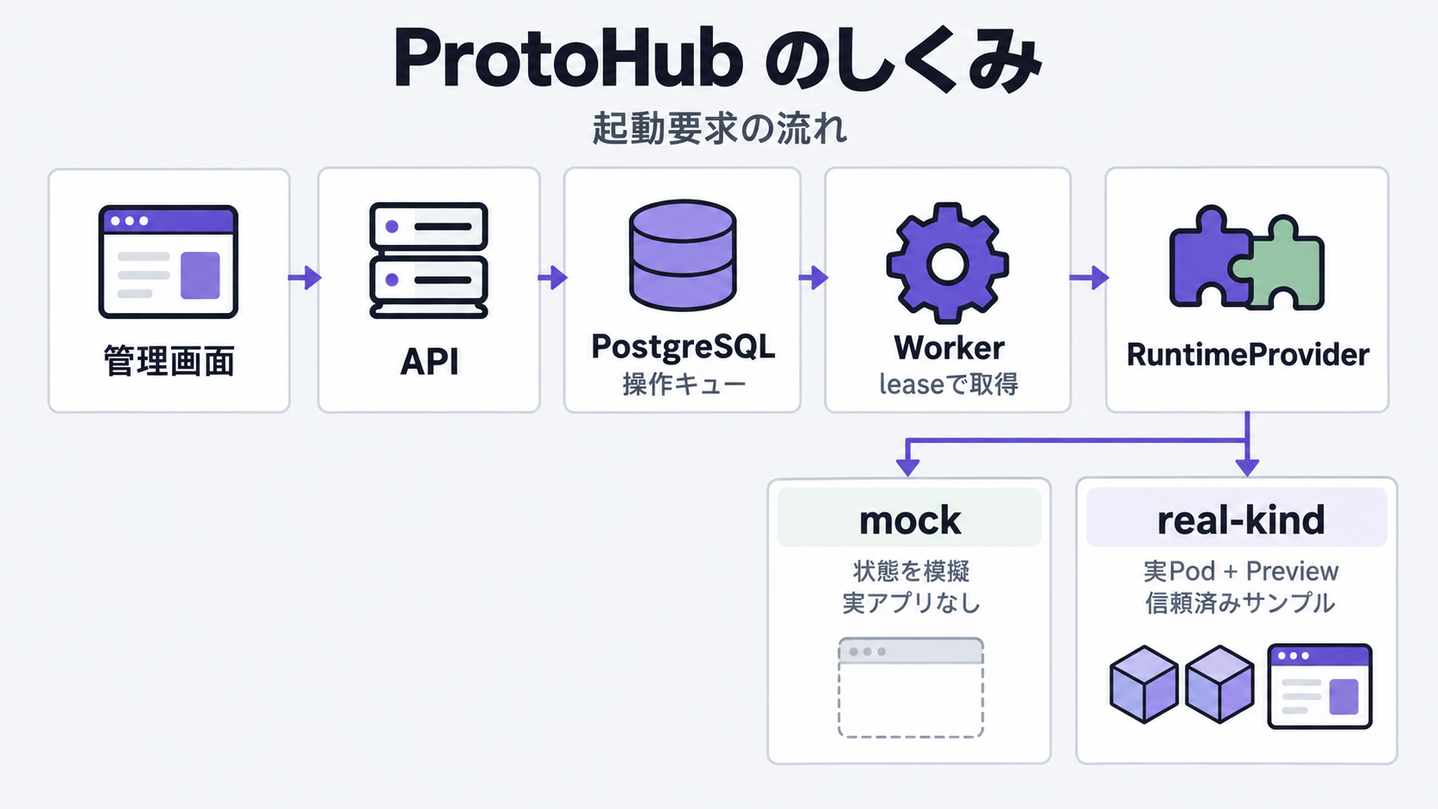
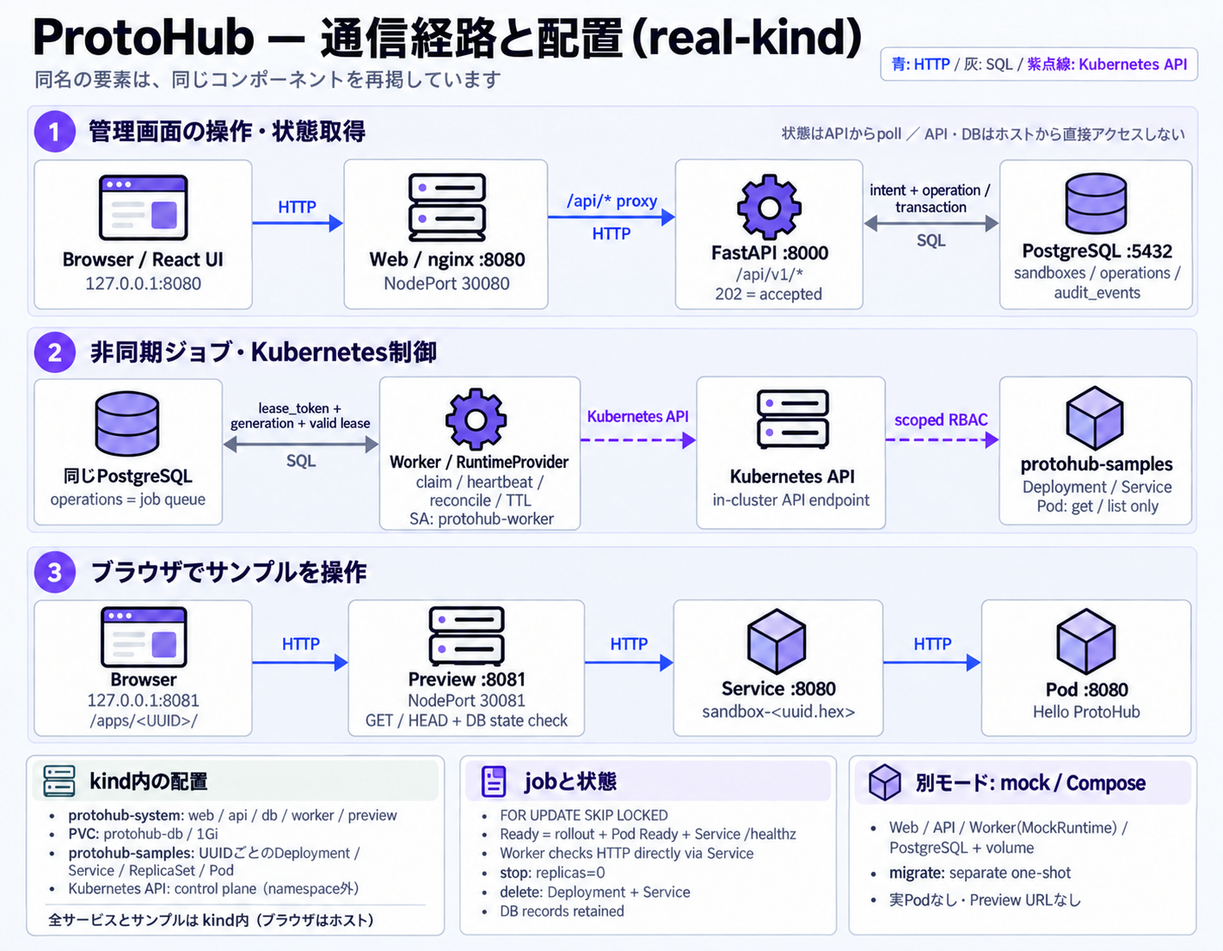
Clarify product walkthrough and detailed engineering diagrams

diff --git a/docs/images/README.md b/docs/images/README.md
@@ -1,75 +1,95 @@
-# READMEの生成イラスト
+# READMEの図と生成プロンプト
 
-GitHubのREADMEで、ProtoHub v0のコンセプトと論理構成を説明するための画像です。
-実画面・動作証跡ではありません。仕様の正本は [MVP_SPEC.md](../MVP_SPEC.md)、
+利用者とエンジニアで読む目的を分け、v2では構成から描き直しました。
+実画面のキャプチャ・動作証跡ではありません。仕様の正本は [MVP_SPEC.md](../MVP_SPEC.md)、
 実検証の到達点は [VALIDATION.md](../VALIDATION.md) を参照してください。
 
-| ファイル | 目的 |
-| --- | --- |
-| [protohub-concept.png](protohub-concept.png) | 信頼済みサンプルの登録・起動・URL操作・停止・削除 |
-| [protohub-architecture.png](protohub-architecture.png) | 管理画面・API・PostgreSQL・Worker・RuntimeProviderと、mock/real-kindの違い |
+| ファイル | 読む人 | 図で伝えること |
+| --- | --- | --- |
+| [protohub-concept.png](protohub-concept.png) | 初めて使う人 | 登録フォーム、起動待ち、Ready後にサンプルを開いてカウンターボタンを押す体験と、アプリごとの停止・起動・削除 |
+| [protohub-architecture.png](protohub-architecture.png) | 実装を読むエンジニア | 管理操作・非同期制御・サンプル操作の3つの通信経路、kindのnamespace別配置、job制御、別構成のmock/Compose |
 
-2026-10-30に内蔵の `image_gen` ツールで新規生成しました。外部API用CLI、実APIキー、
-実画面のキャプチャは使用していません。生成されたPNGをそのままリポジトリに保存しています。
-画像内のReadyは概念上の状態で、テスト合格の宣言ではありません。
-アプリ用AIエージェント、任意コード実行、クラウド公開、悪性コード隔離を表しません。
+2026-10-30に内蔵の `image_gen` ツールで編集生成し、採用PNGをそのまま保存しました。
+元のv1画像はcommit `696ae83` の同じpathにあります。利用者向けは管理画面とサンプルを
+簡略化した操作例です。テンプレート名・サンプル名・カウンター・操作ラベルを実装と照合しています。
+構成図では同じコンポーネントを経路ごとに再掲します。たとえばDBは共通で、経路ごとの別DBではありません。
+PNG内のReadyや接続線は実kind検証の合格を表しません。
 
-## 再生成用プロンプト
+## 再生成手順
 
-以下は採用画像の生成時に使用したプロンプトです。同じプロンプトでも再生成結果は変わり得ます。
+以下は採用画像に使用したプロンプトです。操作図はv1画像を参照して全体構成を編集しました。構成図はv1から3段の通信図を生成し、
+その出力に対して、同一コンポーネントの再掲とWorkerのServiceAccount所属の表記を修正しました。
+同じ入力でも再生成結果は変わり得るため、採用前に文字・接続先・仕様を確認します。
+外部API用CLIや実APIキーは使用していません。
 
-### コンセプト図
+詳細構成の途中案では接続線が重なり誤解を生んだため採用せず、通信経路を3段に分ける
+構成へ変更しました。採用図ではHTTPがPreview → Service → Podの順であること、
+WorkerのKubernetes制御とSQLアクセスが区別できること、mockのmigrationがAPI通信の
+中継点にならないことを確認します。
+
+### 利用者向け：登録して実際に試す操作例
+
+参照画像: v1の `protohub-concept.png`。
 
 ```text
-Use case: infographic-diagram.
-Asset type: GitHub README concept illustration for the existing ProtoHub repository. Produce one finished landscape image, ideally 1536x864, opaque background.
-Primary request: Explain a localhost-only MVP that lets a developer register a trusted sample web app, start it, open its URL when Ready, then stop or delete that app. This is a concept illustration, not an actual screenshot.
-Style: precise editorial product illustration; crisp, sophisticated, mostly flat illustrated objects with very subtle volume and restrained linework. Use the existing product palette: cool off-white #f5f6f8, white cards, charcoal #242736, purple #6750b6, muted green for Ready. Generous whitespace, strong hierarchy, readable Japanese sans-serif text. No stock-photo look, no neon gradients, no robot or AI chat imagery.
-Composition: wide, balanced README cover. At top a large exact wordmark "ProtoHub" and a clear short Japanese headline. Center: one stylized local laptop showing two separate simple sample-app cards, with a small browser-window illustration connected to a Ready card to express opening a URL. Use an illustrative rather than pixel-perfect screenshot treatment. The cards are generic symbols, not fabricated live telemetry. At bottom, four clearly ordered, numbered steps connected left-to-right by arrows, each with a large simple pictogram and exact Japanese label. All type must remain legible when displayed at 900px wide.
-Text (verbatim only, no extra labels):
-"ProtoHub"
-"信頼済みサンプルを、ローカルですぐ試す。"
-"LOCAL MVP"
-"App A"
-"App B"
-"Ready"
-"1 登録"
-"2 起動"
-"3 URLで操作"
-"4 停止・削除"
-Constraints: Japanese characters must be correct and clean. Use the label Ready only as a conceptual card state, never as a verified test result. Show each app as its own card without locks or claims of hostile-code isolation. No cloud, deployment-to-internet, auth, arbitrary-code upload, AI agent, chat bubble, LLM, model name, Kubernetes logo, extra marketing claims, fabricated metrics, or URLs. Do not imply deletion removes the database. No watermark. Keep the full composition inside safe margins.
+Use case: infographic-diagram, full composition revision of an existing README illustration.
+Edit target: the referenced ProtoHub concept image. Replace the entire vague laptop/desk composition with a concrete THREE-PANEL PRODUCT STORYBOARD. Preserve only brand identity, cool off-white background #f5f6f8, purple management controls #6750b6, charcoal text, and green Ready. Remove the desk, plant, laptop hardware, generic landscape webpage, oversized logo, and icon-only flow.
+Primary goal: A new visitor should immediately understand what the product lets them DO and what happens after they click. Show an actual example: register the trusted Hello Web template as デモA, start it, wait for Ready, open the sample, click its counter button; later stop one app while another stays running. This is a conceptual illustration of the real-kind mode, not a screenshot or runtime test result.
+Canvas: wide landscape around 2000x1250, highly legible, crisp flat editorial diagram with large Japanese labels and clean simplified UI panels. No tiny text or decorative props. Header occupies only 12% height. Main three panels occupy 62%; practical per-app management footer 26%. Visible arrows connect the panels left-to-right. Panel3 should be the largest (~40% width), showing the concrete outcome.
+Header exact: "サンプルを起動して、ブラウザで操作できる" with small "ProtoHub / real-kind".
+PANEL1 heading "1 登録する". A simplified actual registration form: label "アプリ名", value "デモA"; label "テンプレート", value "Hello Web"; a purple text button "登録". No code editor, arbitrary upload, or invented template choices.
+PANEL2 heading "2 起動を待つ". Same app "デモA", clear purple text button "起動", arrow to an amber status "起動中". A small waiting indicator conveys asynchronous startup; this panel has no Preview yet.
+PANEL3 heading "3 開いて試す". Same app "デモA", green "Ready", purple button "アプリを開く", then a DOWNWARD arrow into a distinct BLUE SAMPLE browser window (blue #285ed0, pale-blue #eef4fc). It has exact title "Hello ProtoHub". Its large counter button shows "Clicked 0 times" transitioning by a click/cursor arrow to "Clicked 1 times". This is the actual sample behavior; the value is an example, not recorded telemetry. The browser app is a working counter, NOT a generic marketing page. Add short text "ボタンを押すと反応" near the click to make the payoff obvious.
+FOOTER, clearly separated and introduced by "使ったあとは、アプリごとに管理". Show TWO compact management rows after stopping the first app:
+"デモA" with status "停止中" and labeled buttons "起動" and "削除".
+"デモB" with green status "Ready" and labeled buttons "停止" and "削除".
+Alongside them, short outcome statements "停止後も、また起動できます" and "デモAを止めても、デモBはそのまま".
+Constraints: Render all specified Japanese correctly, no placeholder gray lines instead of meaningful UI. No separate '再起動' button (actual UI restarts by 起動). Show Ready only AFTER waiting, and open only after Ready. Generic names デモA/デモB are trusted instances of the same fixed Hello Web template, not arbitrary different apps. Do not show AI chat, generation, cloud/public hosting, security locks, malicious-code isolation, tests passed, fabricated API metrics, URLs, or database removal. Keep exact sample title and counter English; actual sample uses plural "1 times". Whole composition within generous safe margins, no watermark.
 ```
 
-### 論理構成図
+### エンジニア向け：通信経路と配置
+
+参照画像: v1の `protohub-architecture.png`。
 
 ```text
-Use case: infographic-diagram.
-Asset type: explanatory architecture illustration for a GitHub README, second image in a coordinated pair for ProtoHub. One finished landscape image, approximately 1536x864, opaque cool off-white background.
-Primary request: Explain the logical flow of the existing localhost-only trusted-template MVP: management UI → API → PostgreSQL operation queue → separate worker → RuntimeProvider. RuntimeProvider has two explicit adapters: mock simulates state and launches no app; real-kind manages actual trusted sample Pods and a Preview route. This is a logical architecture illustration, not a deployment topology map and not a screenshot or test result.
-Style/medium: precise editorial technical illustration; crisp clean cards, purposeful thin connector lines and arrowheads, simple database/worker/browser/container pictograms. Match existing brand: off-white #f5f6f8, white cards, charcoal #242736, purple #6750b6, restrained muted green. Generous whitespace, no neon or cloud imagery. Large legible Japanese/English sans-serif labels, readable at 900px display width.
-Composition: top title "ProtoHub のしくみ". Upper-middle row has EXACTLY FIVE distinct equally prominent cards connected LEFT TO RIGHT in the order below. These cards represent responsibilities, not separate hosts:
-1. browser icon and "管理画面";
-2. API icon and "API";
-3. database cylinder, "PostgreSQL", sublabel "操作キュー";
-4. gear icon, "Worker", sublabel "leaseで取得";
-5. adapter icon and "RuntimeProvider".
-From ONLY the RuntimeProvider card draw a clear fork to TWO large alternative cards below. Left alternative: "mock" heading, "状態を模擬" and "実アプリなし", a quiet outlined placeholder rather than a running browser or Pod. Right alternative: "real-kind" heading, "実Pod + Preview" and "信頼済みサンプル", two simple app-container icons with a small browser icon to represent real sample interaction. Make both mode labels equally clear. Add a small top subtitle "起動要求の流れ". All arrows must have obvious endpoints and no crossing through text.
-Text (verbatim, no other labels):
-"ProtoHub のしくみ"
-"起動要求の流れ"
-"管理画面"
-"API"
-"PostgreSQL"
-"操作キュー"
-"Worker"
-"leaseで取得"
-"RuntimeProvider"
-"mock"
-"状態を模擬"
-"実アプリなし"
-"real-kind"
-"実Pod + Preview"
-"信頼済みサンプル"
-Constraints: Japanese and uncommon identifiers spelled exactly. The database is PostgreSQL, never Redis. API and worker are distinct. The mock branch must NOT show a running app, URL or Preview. Do not draw cloud services, Redis, Docker socket, arbitrary uploaded code, authentication, AI chat/robot/LLM, model names, internet publication, a security isolation guarantee, verification pass badges, or fabricated metrics. Do not depict deletion of the database. Do not enclose only the sample in a boundary labeled kind: the figure is logical; real-kind actually also hosts control services. Keep full image within generous safe margins. No watermark.
+Use case: infographic-diagram. Full recomposition of the reference architecture illustration for engineering readers.
+Preserve ONLY its off-white/purple/charcoal palette and crisp label style. Do not retain any previous node placement. Make a fresh, readable diagram with THREE SEPARATE HORIZONTAL COMMUNICATION LANES and a compact deployment inventory beneath. No shared connector buses, no crossing arrows, no ambiguous topology lines. Landscape about 1800x1400, readable text, flat technical diagram, minimal icons, no giant logo.
+Title: "ProtoHub — 通信経路と配置（real-kind）".
+Small legend: "青: HTTP / 灰: SQL / 紫点線: Kubernetes API".
+Important: the same components are repeated by route, not duplicate running services. Say "経路ごとに同じコンポーネントを再掲".
+LANE 1 title "1 管理画面の操作・状態取得".
+Four large boxes aligned left-to-right:
+A "Browser / React UI" and "127.0.0.1:8080";
+B "Web / nginx :8080" and "NodePort 30080";
+C "FastAPI :8000" and "/api/v1/*" and "202 = accepted";
+D "PostgreSQL :5432" and "sandboxes / operations / audit_events".
+Connections ONLY A→B and B→C in BLUE HTTP, C↔D in GRAY SQL. Label B→C "/api/* proxy"; label C↔D "intent + operation / transaction". Add small note "状態はAPIからpoll". Do not expose API/DB to host.
+LANE 2 title "2 非同期ジョブ・Kubernetes制御".
+Four large boxes aligned left-to-right:
+A "同じPostgreSQL" and "operations = job queue";
+B "Worker / RuntimeProvider" and "claim / heartbeat / reconcile / TTL";
+C "Kubernetes API" and "in-cluster ServiceAccount" and "protohub-worker";
+D "protohub-samples" and "Deployment / Service" and "Pod: get / list only".
+Connections ONLY A↔B in GRAY SQL; B→C and C→D in DASHED PURPLE control. Label gray connection "lease_token + generation + valid lease". Label last connection "scoped RBAC". No arrow between this lane and lane3; observed HTTP is stated separately below.
+LANE 3 title "3 ブラウザでサンプルを操作".
+Four large boxes aligned left-to-right:
+A "Browser" and "127.0.0.1:8081" and "/apps/<UUID>/";
+B "Preview :8081" and "NodePort 30081" and "GET / HEAD + DB state check";
+C "Service :8080" and "sandbox-<uuid.hex>";
+D "Pod :8080" and "Hello ProtoHub".
+EXACTLY THREE BLUE HTTP ARROWS, left-to-right: Browser→Preview→Service→Pod. There is NO Deployment in the HTTP path. This row is the most important traffic path. No HTTP arrow Pod→Service. No direct Preview→Pod. No cross-app arrows.
+BOTTOM: Three compact informational panels WITHOUT connector arrows:
+Panel "kind内の配置": "protohub-system: web / api / db / worker / preview"; "PVC: protohub-db / 1Gi"; "protohub-samples: UUIDごとのDeployment / Service / ReplicaSet / Pod"; "Kubernetes API: control plane（namespace外）". A small sentence "全サービスとサンプルはkind内" makes physical deployment clear; browsers remain on host.
+Panel "jobと状態": "FOR UPDATE SKIP LOCKED"; "Ready = rollout + Pod Ready + Service /healthz"; "Worker checks HTTP directly via Service"; "stop: replicas=0"; "delete: Deployment + Service"; "DB records retained". No microscopic explanatory paragraphs.
+Panel "別モード: mock / Compose": A TEXT LIST, no arrows: "Web / API / Worker(MockRuntime) / PostgreSQL + volume"; "migrate: separate one-shot"; "実Podなし・Preview URLなし". Do NOT draw API→migrate→DB, since migration is a separate setup task, not an API request hop.
+Constraints: labels and ports exactly as specified. The rows are logical communication paths; placement is summarized in the bottom inventory, not by crossing topology boundaries. Do not add extra components. No Redis, Ingress, external cloud, AI/chat, test-pass badges, public API/DB, direct worker Pod creation, hostile-code isolation claims or DB deletion. All labels inside boxes, arrows only in each row with explicit endpoints. Keep all text sharp and usable at full-image view. No watermark.
+```
+
+### 詳細構成：注記とWorkerのServiceAccount表記を明確化
+
+参照画像: 上記の3段の通信図。
+
+```text
+undefined
 ```
 

diff --git a/README.md b/README.md
@@ -1,17 +1,18 @@
 # ProtoHub
 
-信頼済みの固定テンプレート `hello-web` を、管理画面から登録・起動・停止・削除する
-localhost専用MVPです。Kubernetesのコマンドを知らなくても、サンプルを起動して試せます。
+サンプルアプリを画面で登録し、起動して、ブラウザで試せるローカルの管理ツールです。
+現在のv0は、信頼済みの固定テンプレート `hello-web` を扱うlocalhost専用MVPです。
 
-![ProtoHubのコンセプト。管理画面から個別のサンプルを登録し、起動、Ready後のURL操作、停止・削除へ進む。](docs/images/protohub-concept.png)
+![ProtoHubでできること。Hello WebをデモAとして登録し、起動中からReadyになるのを待ち、アプリを開いてHello ProtoHubのカウンターボタンを操作する。使った後はアプリごとに停止・起動・削除でき、デモAを止めてもデモBは動き続ける。](docs/images/protohub-concept.png)
 
-*コンセプト図（生成イラスト）。実画面や検証結果のスクリーンショットではありません。*
+*real-kindでの操作例を描いた生成イラストです。実画面・検証証跡ではありません。
+mockでは実サンプルを開けません。*
 
-**登録 → 起動 → Ready → URLで操作 → 停止・再起動・削除** が基本の体験です。
-real-kindではPod readinessと実HTTP応答を確認してからReadyを表示します。
-アプリごとに実行資源を管理し、一方の停止・削除がもう一方に影響しない設計です。
-停止は再利用のために実行を止め、削除はそのアプリの実行資源を除去します。
-管理レコードはDBに保持します。
+- **名前を付けて登録する**：Hello Webテンプレートから、自分のサンプルを管理画面に追加します。
+- **起動して実際に試す**：「起動」後、Readyになったら「アプリを開く」を押します。
+  サンプルの `Hello ProtoHub` では、ボタンを押すとクリック回数が変わります。
+- **アプリごとに管理する**：停止後も「起動」で再び使え、不要なら削除できます。
+  一方の操作がもう一方に影響しない設計です。管理レコードはDBに保持します。
 
 v0は単一開発者・信頼済みサンプルが対象です。対話しながらアプリを作る製品内AIは
 [将来設計](docs/AI_DLC.md)として整理しています。開発者用のDevContainer・ハーネス・スキルは
@@ -20,15 +21,47 @@ v0は単一開発者・信頼済みサンプルが対象です。対話しなが
 実装・検証の到達点は [検証記録](docs/VALIDATION.md)、依存版は
 [DEV_ENVIRONMENT](docs/DEV_ENVIRONMENT.md) を参照してください。
 
-## しくみと実行モード
+## エンジニア向け：構成と実行モード
 
-![ProtoHubの論理構成。管理画面、API、PostgreSQLの操作キュー、別プロセスのWorker、RuntimeProviderを経て、mockまたはreal-kindへ処理を渡す。mockは実アプリを起動しない。](docs/images/protohub-architecture.png)
+![real-kindの通信を3段で示す。管理操作はBrowserからnginx、FastAPI、PostgreSQLへ進む。非同期処理は同じDBとWorker、ServiceAccountを使うKubernetes API制御へ進む。サンプル操作のHTTPはBrowser、Preview、Service、Podの順。下部にkindのnamespace別配置、jobと状態、別構成のmock/Composeを示す。](docs/images/protohub-architecture.png)
 
-*構成図（生成イラスト）。起動要求の論理的な流れを示します。real-kindでは管理用の
-web/API/worker/DB/previewもkind内に配置します。*
+*構成図（生成イラスト）。[画像を開くと拡大できます](docs/images/protohub-architecture.png)。
+3段の通信経路でHTTP・DBアクセス・Kubernetes制御を区別し、下部に配置とjob制御を示しています。
+各段には同じコンポーネントを再掲しています。DBが複数ある構成ではありません。
+構成の説明であり、実kind検証の合格を示すものではありません。*
 
-APIは操作要求と管理データをPostgreSQLへ保存し、別プロセスのworkerが期限付きleaseで
-jobを取得して実行・観測します。管理データと操作キューはAPI/workerの再起動後も残ります。
+図内の `127.0.0.1` はホストのbind先です。ブラウザでは管理画面の
+`http://localhost:8080` とPreviewの `http://localhost:8081/apps/<UUID>/` を使います。
+管理画面のOriginは設定済みの `localhost` と一致させてください。
+
+real-kindでは、管理用コンポーネントもサンプルも専用kindクラスタ内で動きます。
+`protohub-system` と `protohub-samples` は管理範囲を分けるnamespaceです。
+悪性コードを隔離する境界としては扱いません。以下のportは既定値です。
+
+| 経路・役割 | 実装 |
+| --- | --- |
+| 管理画面とAPI | `127.0.0.1:8080` → NodePort `30080` → nginx。Reactの静的ファイルを配信し、`/api/*` を内部のFastAPI `:8000` へ転送 |
+| サンプル操作 | `127.0.0.1:8081/apps/<UUID>/` → NodePort `30081` → Preview `:8081` → 対象Service `:8080` → Pod `:8080`。PreviewはDBで現在の状態を確認し、固定ServiceへGET/HEADだけを転送 |
+| 永続化 | PostgreSQL `:5432` の `sandboxes` / `operations` / `audit_events`。`operations` 自体がjob queue。DBはDeploymentとPVC `protohub-db` を使い、API/workerの再起動後も記録を保持 |
+| 非同期処理 | APIは意図・generation・operationを同一transactionで登録し、`202` を返す。別プロセスのworkerが `FOR UPDATE SKIP LOCKED` でclaimし、実行・観測・reconcile・TTL停止を担当 |
+| 遅延結果の抑止 | lease owner/token、有効期限、active operation、generation、desired stateを照合して更新。古いworkerの遅れた結果が新しい停止・削除を覆さない |
+| Kubernetes制御 | WorkerのServiceAccount `protohub-worker` がサンプルnamespaceのDeployment/Serviceを操作し、Podは参照のみ。PodはDeployment配下のReplicaSet/controllerが生成・管理 |
+
+APIとPreviewはKubernetesの管理tokenを持たず、APIとDBはホストへ直接公開しません。
+PreviewはCookie/Authorizationを転送せず、任意のupstream URLを受け付けません。
+API・worker・Previewは共通Pythonパッケージを使う別プロセスです。
+Pod生成の標準的な制御関係は [KubernetesのDeployment解説](https://kubernetes.io/docs/concepts/workloads/controllers/deployment/) を参照してください。
+
+実装の参照先は [配置マニフェスト](infra/kubernetes/stack.yaml.in)、[RBAC](infra/kubernetes/rbac.yaml)、
+[job store](apps/server/src/protohub/persistence/jobs.py)、[RuntimeProvider実装](apps/server/src/protohub/runtime/kubernetes.py)、
+[Preview](apps/server/src/protohub/preview/__init__.py) です。
+
+| 操作・判定 | 実際の処理 |
+| --- | --- |
+| Ready | 現generationのDeployment rollout・Pod Ready・Serviceへの実 `GET /healthz` を確認。`202` やPod作成受付だけではReadyにしない |
+| 停止 | Deploymentのreplicasを0にし、Podの停止を待つ。Deployment・Service・管理レコードは保持し、Previewを無効化 |
+| 削除 | 対象のDeployment・Serviceを除去し、消失を確認。DBには墓標と監査記録を保持 |
+| 自動停止 | 起動成功から60〜3600秒（既定900秒）のTTLをworkerが計測し、期限で停止要求を登録 |
 
 | モード | 基盤 | サンプルの挙動 |
 | --- | --- | --- |

diff --git a/harness/PLAN.md b/harness/PLAN.md
@@ -71,6 +71,13 @@ and image readability. Images explain the current trusted-template MVP, distingu
 mock from real-kind, and do not claim product AI execution or runtime verification.
 Image/reference/hygiene checks and an independent review cover this documentation change.
 
+Diagram revision: `readme-diagrams-v2` replaces the vague concept artwork with a
+three-panel registration/start/wait/open/click story and per-app lifecycle examples.
+The engineering diagram now covers real-kind namespaces, actual localhost/NodePort
+entrypoints, Preview traffic, PostgreSQL/PVC, scoped worker control and job fencing;
+mock remains a separate Compose alternative. Source/config audits by Backend and
+concrete sample UI/design audit by Frontend inform generation and final review.
+
 Final integrated make/check/full evidence follows in `.harness/reports/` and docs/VALIDATION.md.
 Real sample Pod/HTTP/lifecycle, real Playwright and live RBAC remain BLOCKED until cgroup v2.
 Do not mark full acceptance complete or convert these checks into mock passes.
